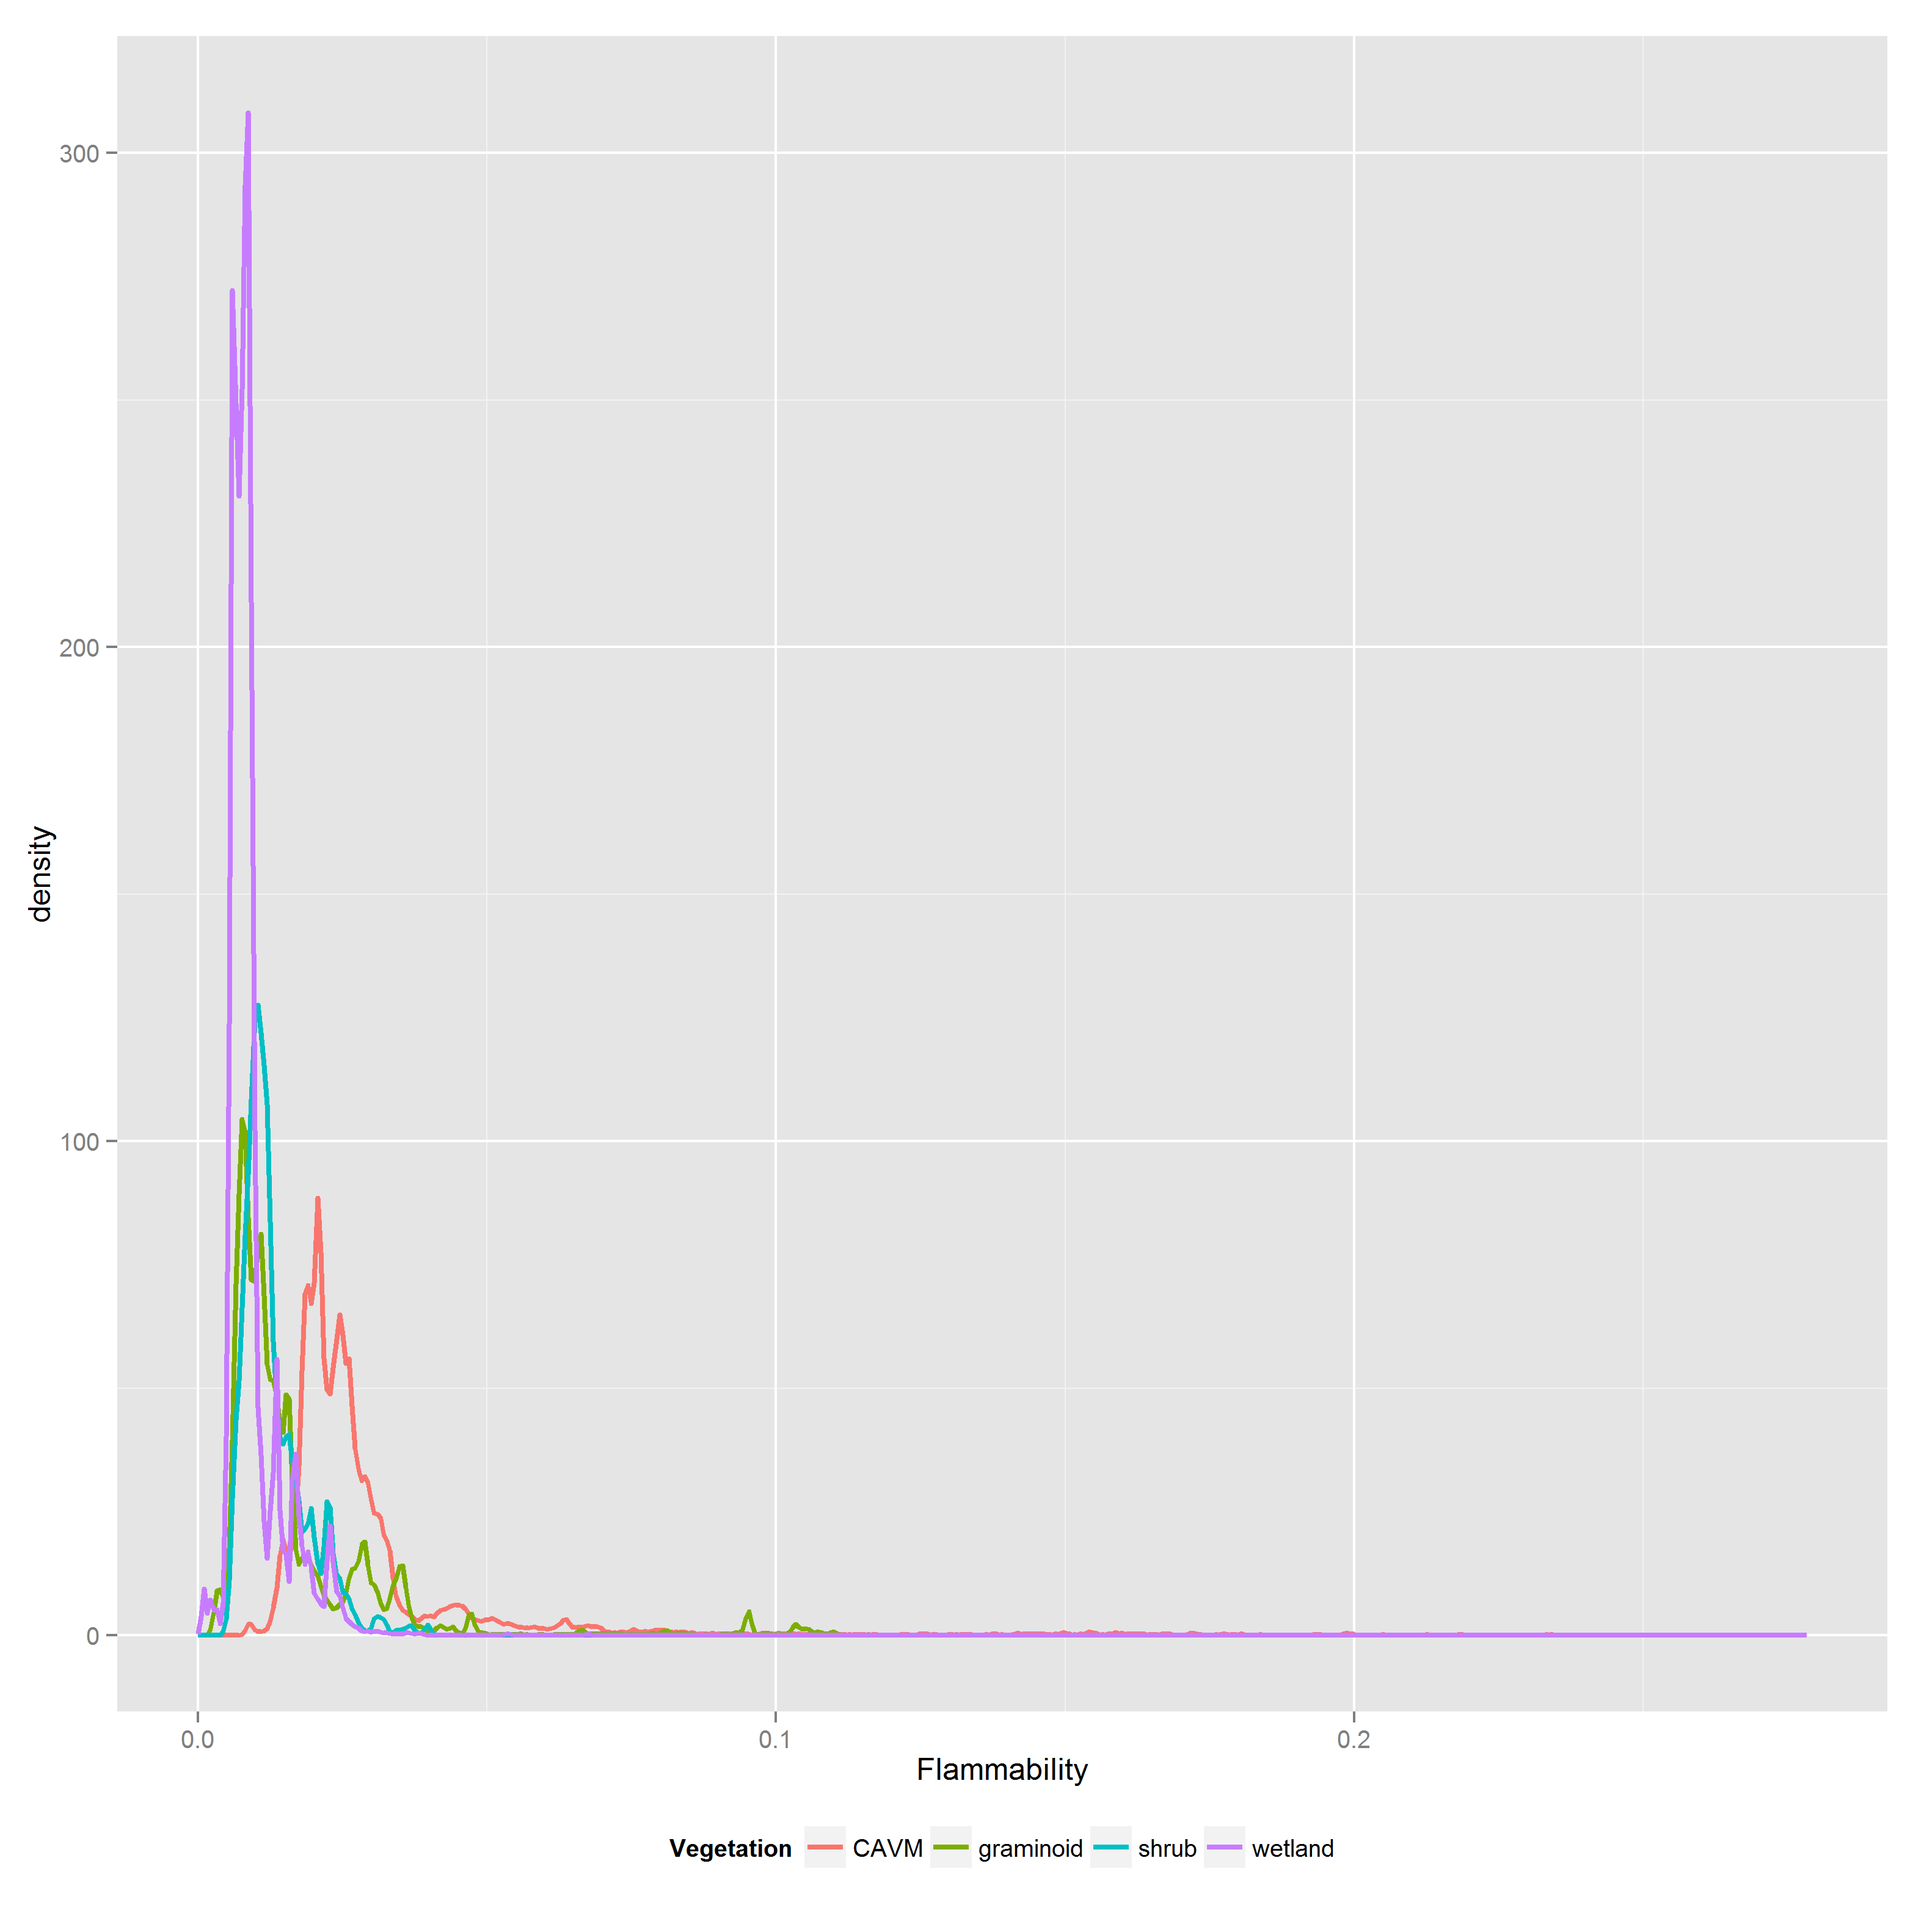
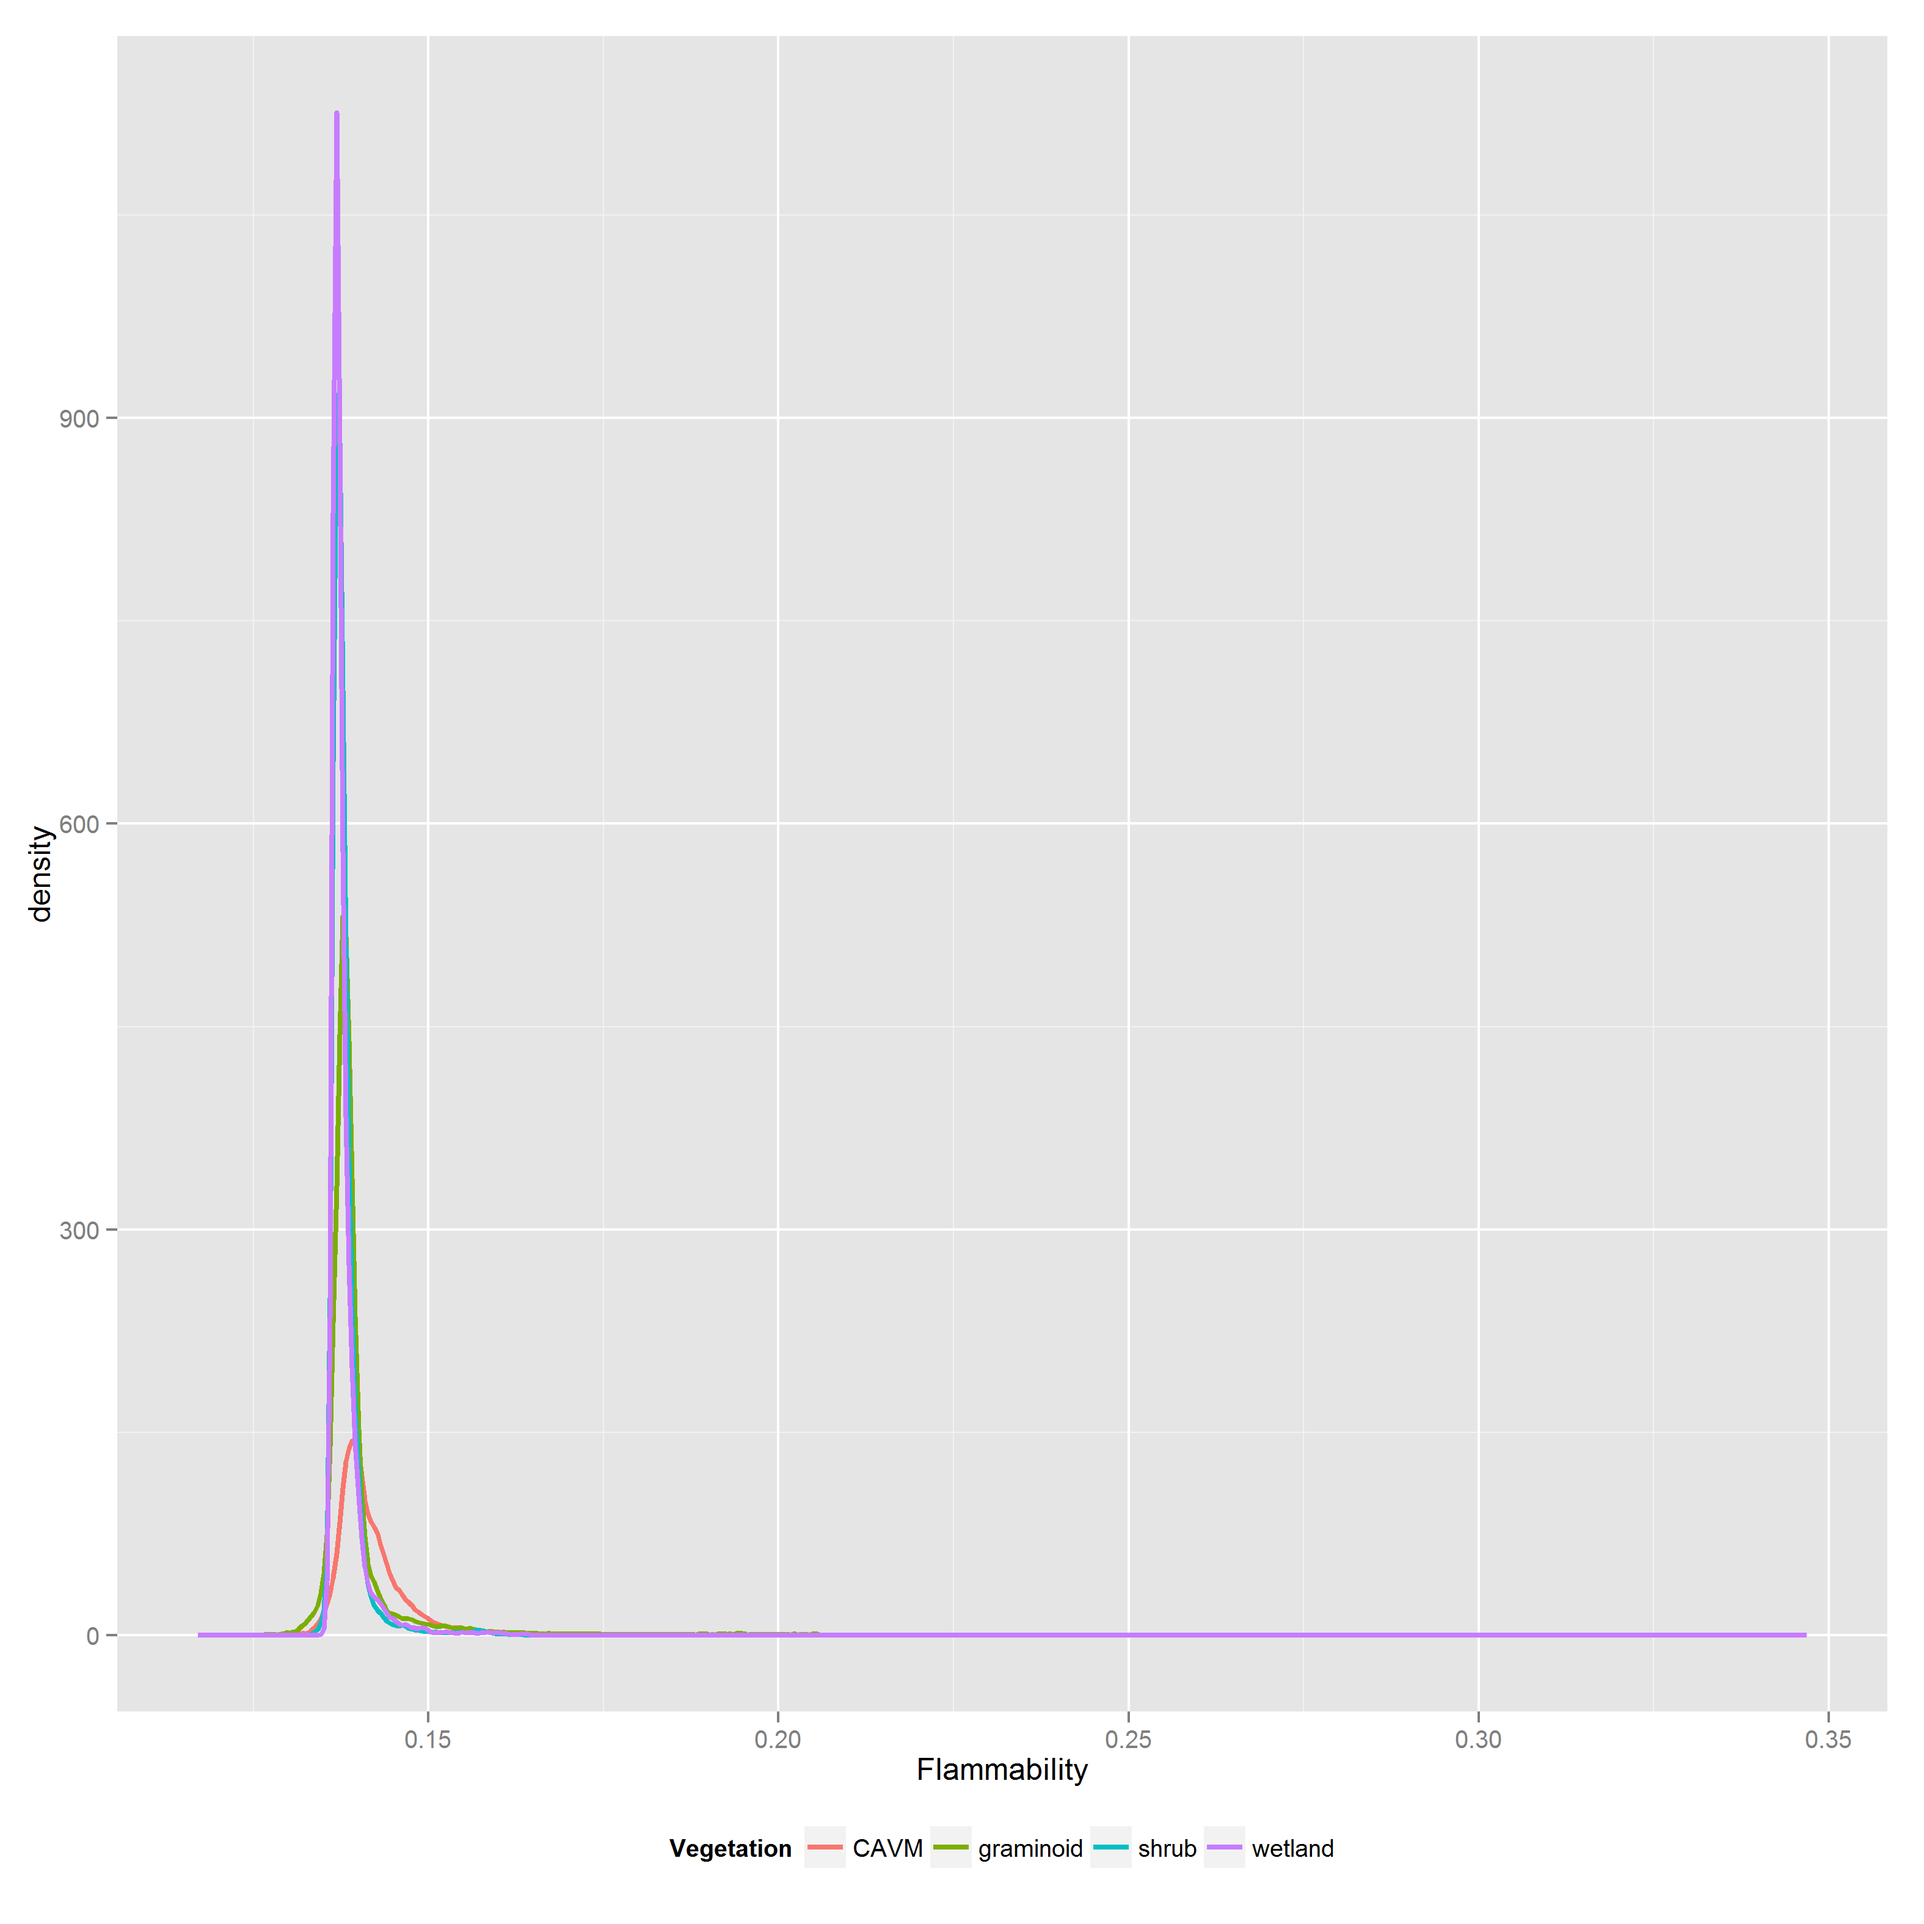
Update docs

diff --git a/cavm_flam_dist.html b/cavm_flam_dist.html
@@ -209,13 +209,13 @@ img {
 <p>Each plot is broken out by vegetation class within the CAVM tundra region as well as each of three component classes, shrub, graminoid, and wetland tundra.</p>
 <div id="marginal-distribution" class="section level3">
 <h3>Marginal distribution</h3>
-<p>The first plot shows a density function proportional to joint probability distribution for flammability in time and space, marginalized with repsect to time. The time period is 1950 - 2013. The second plot is the same, but truncated to a maximum of 0.12 flammability.</p>
+<p>The first plot shows a density function proportional to joint probability distribution for flammability in time and space, marginalized with repsect to time. The time period is 1950 - 2013. The second plot is the same, but truncated to a maximum of 0.16 flammability.</p>
 <p><img src="cavm_flam_dist_files/figure-html/plot01a-1.png" /></p>
 <p><img src="cavm_flam_dist_files/figure-html/plot01b-1.png" /></p>
 </div>
 <div id="conditional-distribution" class="section level3">
 <h3>Conditional distribution</h3>
-<p>This plot shows multiple overlapping spatial flammability distributions conditioned on each year, also truncated at 0.12.</p>
+<p>This plot shows multiple overlapping spatial flammability distributions conditioned on each year, also truncated at 0.16.</p>
 <p><img src="cavm_flam_dist_files/figure-html/plot02-1.png" /></p>
 <p>The table below provides distribution quantiles by vegetation class.</p>
 <table>
@@ -235,43 +235,43 @@ img {
 <tbody>
 <tr class="odd">
 <td align="left">CAVM</td>
-<td align="right">0.0159</td>
-<td align="right">0.0180</td>
-<td align="right">0.0201</td>
-<td align="right">0.0241</td>
-<td align="right">0.0295</td>
-<td align="right">0.0449</td>
-<td align="right">0.0638</td>
+<td align="right">0.1363</td>
+<td align="right">0.1372</td>
+<td align="right">0.1386</td>
+<td align="right">0.1405</td>
+<td align="right">0.1437</td>
+<td align="right">0.1487</td>
+<td align="right">0.1547</td>
 </tr>
 <tr class="even">
 <td align="left">shrub</td>
-<td align="right">0.0069</td>
-<td align="right">0.0078</td>
-<td align="right">0.0094</td>
-<td align="right">0.0115</td>
-<td align="right">0.0155</td>
-<td align="right">0.0216</td>
-<td align="right">0.0239</td>
+<td align="right">0.1362</td>
+<td align="right">0.1364</td>
+<td align="right">0.1368</td>
+<td align="right">0.1374</td>
+<td align="right">0.1383</td>
+<td align="right">0.1397</td>
+<td align="right">0.1412</td>
 </tr>
 <tr class="odd">
 <td align="left">graminoid</td>
-<td align="right">0.0064</td>
-<td align="right">0.0069</td>
-<td align="right">0.0084</td>
-<td align="right">0.0116</td>
-<td align="right">0.0179</td>
-<td align="right">0.0310</td>
-<td align="right">0.0364</td>
+<td align="right">0.1356</td>
+<td align="right">0.1363</td>
+<td align="right">0.1372</td>
+<td align="right">0.1382</td>
+<td align="right">0.1394</td>
+<td align="right">0.1427</td>
+<td align="right">0.1491</td>
 </tr>
 <tr class="even">
 <td align="left">wetland</td>
-<td align="right">0.0055</td>
-<td align="right">0.0059</td>
-<td align="right">0.0067</td>
-<td align="right">0.0082</td>
-<td align="right">0.0096</td>
-<td align="right">0.0164</td>
-<td align="right">0.0196</td>
+<td align="right">0.1363</td>
+<td align="right">0.1364</td>
+<td align="right">0.1367</td>
+<td align="right">0.1372</td>
+<td align="right">0.1382</td>
+<td align="right">0.1399</td>
+<td align="right">0.1421</td>
 </tr>
 </tbody>
 </table>
